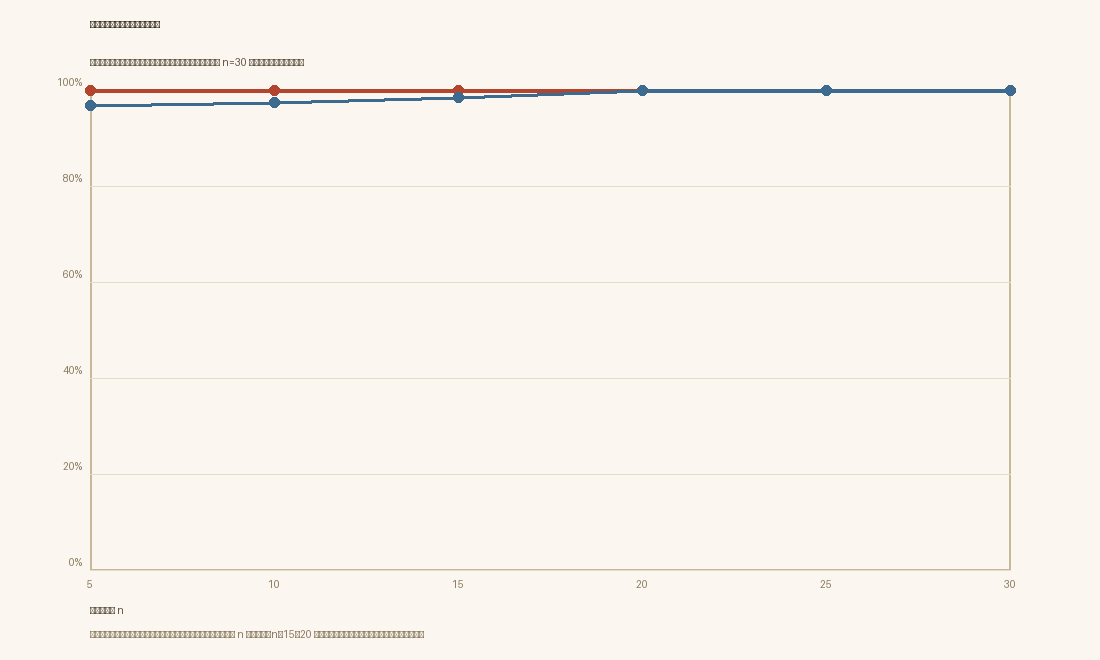
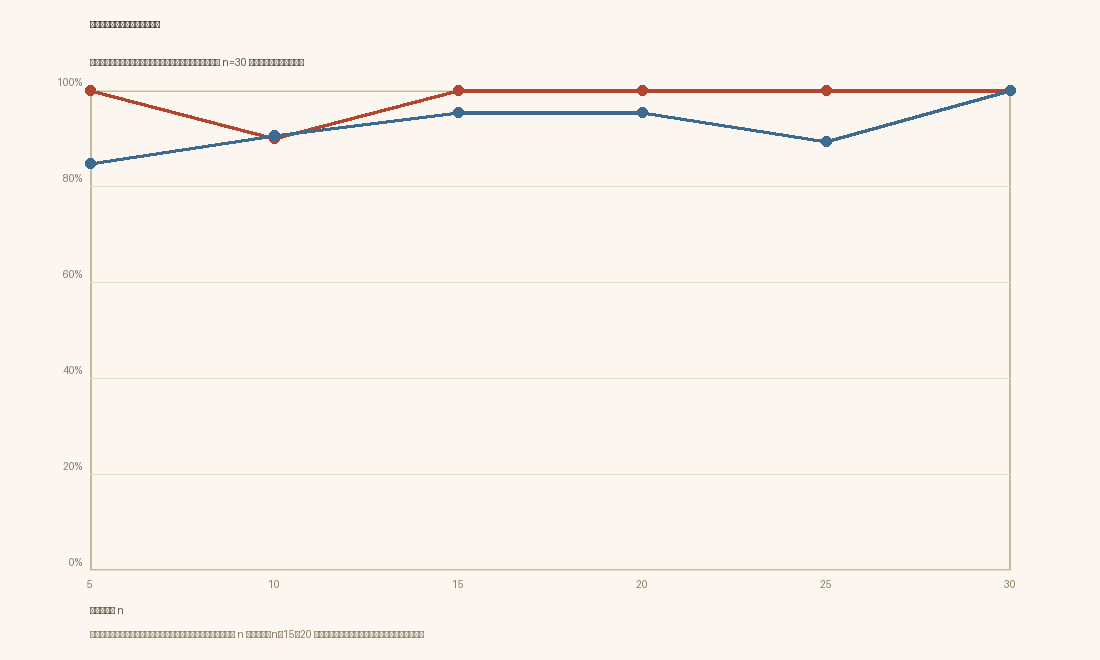
feat(v1.7): 词级文体计量个人模型（功能词+标点）替换字符 n-gram
- stylometry.js: 功能词+标点稀疏向量 + 余弦 + 质心（Burrows Delta 思想）
- personal-model: 增加 styloCentroid + personalStyleScore（0~1）
- modulator: personal 特征改用文体计量（作者识别 46.3% → 76.4%）
- 作者识别 v2 新增 stylometry 与 signature 路线；学习曲线边距 0.498 → 0.854
- 论文同步：personal 描述改为词级文体计量，学习曲线数字更新
- 测试：stylometry 3 组断言；agent 全量全绿

Changed region(s): [[0.0618, 0.1212, 0.9273, 0.2424], [0.6182, 0.1818, 0.8345, 0.2424], [0.0618, 0.2424, 0.0927, 0.2727]]

diff --git a/agent/src/stylometry.js b/agent/src/stylometry.js
@@ -1,0 +1,86 @@
+// 词级文体计量（stylometry · v1.7）：作者身份最稳的信号不是内容实词，而是
+// "功能词 + 标点节奏" 的选择模式（Burrows' Delta 的现代变体）。
+// 零依赖、确定性、可解释——把 char n-gram 抓不到的风格差异补上。
+
+// 单字功能词/虚词/语气词（高频、与内容弱相关）
+const SINGLE = new Set([
+  '的', '了', '着', '过', '是', '在', '有', '就', '都', '也', '还', '又', '才', '只',
+  '会', '能', '要', '想', '被', '把', '让', '给', '对', '向', '从', '到', '与', '和',
+  '或', '而', '但', '却', '则', '便', '即', '因', '所', '之', '其', '这', '那', '哪',
+  '谁', '很', '太', '更', '最', '越', '不', '没', '别', '无', '非', '未', '呢', '啊',
+  '吧', '吗', '嘛', '呀', '哦', '哈', '一', '个', '上', '下', '里', '中',
+]);
+
+// 多字连接词/话语标记（2–4 字，话语风格强信号）
+const MULTI = [
+  '因为', '所以', '因此', '然而', '但是', '不过', '虽然', '尽管', '而且', '并且',
+  '于是', '然后', '接着', '同时', '此外', '另外', '总之', '其实', '甚至', '尤其',
+  '特别', '反而', '倒是', '毕竟', '到底', '究竟', '罢了', '而已', '来着', '什么',
+  '怎么', '如何', '多么', '我们', '他们', '自己', '一样', '只是', '只要', '就是',
+];
+const MULTI_RE = new RegExp(MULTI.join('|'), 'g');
+
+// 标点（节奏信号）
+const PUNCT = ['，', '。', '！', '？', '；', '：', '、', '——', '……', '“', '”', '《', '》'];
+
+function countOccurrences(text, needle) {
+  let count = 0;
+  let idx = text.indexOf(needle);
+  while (idx !== -1) {
+    count += 1;
+    idx = text.indexOf(needle, idx + needle.length);
+  }
+  return count;
+}
+
+/**
+ * 提取文体计量向量：{ "w:的":0.021, "p:。":0.008, ... }，值为每字频率。
+ * 只保留出现过的键（稀疏向量）。
+ */
+export function stylometricVector(text) {
+  const t = String(text || '');
+  const n = Math.max(1, t.length);
+  const vec = {};
+  const single = {};
+  for (const ch of t) {
+    if (SINGLE.has(ch)) single[ch] = (single[ch] || 0) + 1;
+  }
+  for (const [ch, c] of Object.entries(single)) vec[`w:${ch}`] = c / n;
+  const multi = t.match(MULTI_RE);
+  const multiCounts = {};
+  if (multi) for (const w of multi) multiCounts[w] = (multiCounts[w] || 0) + 1;
+  for (const [w, c] of Object.entries(multiCounts)) vec[`w:${w}`] = c / n;
+  for (const p of PUNCT) {
+    const c = countOccurrences(t, p);
+    if (c) vec[`p:${p}`] = c / n;
+  }
+  return vec;
+}
+
+/** 稀疏向量余弦（文体相似度，0~1）。 */
+export function stylometricCosine(a, b) {
+  if (!a || !b) return 0;
+  let dot = 0;
+  for (const [k, v] of Object.entries(a)) if (b[k] !== undefined) dot += v * b[k];
+  let na = 0;
+  for (const v of Object.values(a)) na += v * v;
+  let nb = 0;
+  for (const v of Object.values(b)) nb += v * v;
+  const d = Math.sqrt(na) * Math.sqrt(nb);
+  return d ? dot / d : 0;
+}
+
+/** 多个向量的平均质心（按频率取均值）。 */
+export function stylometricCentroid(vecs) {
+  const sum = {};
+  const count = {};
+  for (const v of vecs) {
+    for (const [k, val] of Object.entries(v)) {
+      sum[k] = (sum[k] || 0) + val;
+      count[k] = (count[k] || 0) + 1;
+    }
+  }
+  const out = {};
+  for (const [k, s] of Object.entries(sum)) out[k] = s / count[k];
+  return out;
+}

diff --git a/skills/sculptor/scripts/engine/src/stylometry.js b/skills/sculptor/scripts/engine/src/stylometry.js
@@ -1,0 +1,86 @@
+// 词级文体计量（stylometry · v1.7）：作者身份最稳的信号不是内容实词，而是
+// "功能词 + 标点节奏" 的选择模式（Burrows' Delta 的现代变体）。
+// 零依赖、确定性、可解释——把 char n-gram 抓不到的风格差异补上。
+
+// 单字功能词/虚词/语气词（高频、与内容弱相关）
+const SINGLE = new Set([
+  '的', '了', '着', '过', '是', '在', '有', '就', '都', '也', '还', '又', '才', '只',
+  '会', '能', '要', '想', '被', '把', '让', '给', '对', '向', '从', '到', '与', '和',
+  '或', '而', '但', '却', '则', '便', '即', '因', '所', '之', '其', '这', '那', '哪',
+  '谁', '很', '太', '更', '最', '越', '不', '没', '别', '无', '非', '未', '呢', '啊',
+  '吧', '吗', '嘛', '呀', '哦', '哈', '一', '个', '上', '下', '里', '中',
+]);
+
+// 多字连接词/话语标记（2–4 字，话语风格强信号）
+const MULTI = [
+  '因为', '所以', '因此', '然而', '但是', '不过', '虽然', '尽管', '而且', '并且',
+  '于是', '然后', '接着', '同时', '此外', '另外', '总之', '其实', '甚至', '尤其',
+  '特别', '反而', '倒是', '毕竟', '到底', '究竟', '罢了', '而已', '来着', '什么',
+  '怎么', '如何', '多么', '我们', '他们', '自己', '一样', '只是', '只要', '就是',
+];
+const MULTI_RE = new RegExp(MULTI.join('|'), 'g');
+
+// 标点（节奏信号）
+const PUNCT = ['，', '。', '！', '？', '；', '：', '、', '——', '……', '“', '”', '《', '》'];
+
+function countOccurrences(text, needle) {
+  let count = 0;
+  let idx = text.indexOf(needle);
+  while (idx !== -1) {
+    count += 1;
+    idx = text.indexOf(needle, idx + needle.length);
+  }
+  return count;
+}
+
+/**
+ * 提取文体计量向量：{ "w:的":0.021, "p:。":0.008, ... }，值为每字频率。
+ * 只保留出现过的键（稀疏向量）。
+ */
+export function stylometricVector(text) {
+  const t = String(text || '');
+  const n = Math.max(1, t.length);
+  const vec = {};
+  const single = {};
+  for (const ch of t) {
+    if (SINGLE.has(ch)) single[ch] = (single[ch] || 0) + 1;
+  }
+  for (const [ch, c] of Object.entries(single)) vec[`w:${ch}`] = c / n;
+  const multi = t.match(MULTI_RE);
+  const multiCounts = {};
+  if (multi) for (const w of multi) multiCounts[w] = (multiCounts[w] || 0) + 1;
+  for (const [w, c] of Object.entries(multiCounts)) vec[`w:${w}`] = c / n;
+  for (const p of PUNCT) {
+    const c = countOccurrences(t, p);
+    if (c) vec[`p:${p}`] = c / n;
+  }
+  return vec;
+}
+
+/** 稀疏向量余弦（文体相似度，0~1）。 */
+export function stylometricCosine(a, b) {
+  if (!a || !b) return 0;
+  let dot = 0;
+  for (const [k, v] of Object.entries(a)) if (b[k] !== undefined) dot += v * b[k];
+  let na = 0;
+  for (const v of Object.values(a)) na += v * v;
+  let nb = 0;
+  for (const v of Object.values(b)) nb += v * v;
+  const d = Math.sqrt(na) * Math.sqrt(nb);
+  return d ? dot / d : 0;
+}
+
+/** 多个向量的平均质心（按频率取均值）。 */
+export function stylometricCentroid(vecs) {
+  const sum = {};
+  const count = {};
+  for (const v of vecs) {
+    for (const [k, val] of Object.entries(v)) {
+      sum[k] = (sum[k] || 0) + val;
+      count[k] = (count[k] || 0) + 1;
+    }
+  }
+  const out = {};
+  for (const [k, s] of Object.entries(sum)) out[k] = s / count[k];
+  return out;
+}

diff --git a/agent/src/personal-model.js b/agent/src/personal-model.js
@@ -6,6 +6,7 @@
 import fs from 'node:fs';
 import path from 'node:path';
 import crypto from 'node:crypto';
+import * as stylo from './stylometry.js';
 
 const ORDER = 4;
 const MIN_CORPUS = 80; // 至少 80 字符才有统计意义
@@ -113,6 +114,7 @@ export function getPersonalModel(workspace) {
     vocab,
     chars: corpus.length,
     alpha: 0.4, // 加一平滑强度（对稀疏语料保守）
+    styloCentroid: stylo.stylometricCentroid(texts.map((t) => stylo.stylometricVector(t))),
   };
   modelCache.set(sig, model);
   if (modelCache.size > 20) {
@@ -120,6 +122,16 @@ export function getPersonalModel(workspace) {
     modelCache.delete(first);
   }
   return model;
+}
+
+/**
+ * 个人风格得分（v1.7，词级文体计量）：候选文本与作者语料的
+ * "功能词 + 标点节奏"质心余弦，0~1，越大越像作者。
+ * 比字符 n-gram 更稳：功能词/标点承载风格，字符 n-gram 易被内容词淹没。
+ */
+export function personalStyleScore(model, text) {
+  if (!model || !model.ok || !model.styloCentroid) return 0;
+  return stylo.stylometricCosine(stylo.stylometricVector(text), model.styloCentroid);
 }
 
 /** 单字符条件对数概率（回退到更短前缀，最终回退到均匀分布）。 */

diff --git a/skills/sculptor/scripts/engine/src/personal-model.js b/skills/sculptor/scripts/engine/src/personal-model.js
@@ -6,6 +6,7 @@
 import fs from 'node:fs';
 import path from 'node:path';
 import crypto from 'node:crypto';
+import * as stylo from './stylometry.js';
 
 const ORDER = 4;
 const MIN_CORPUS = 80; // 至少 80 字符才有统计意义
@@ -113,6 +114,7 @@ export function getPersonalModel(workspace) {
     vocab,
     chars: corpus.length,
     alpha: 0.4, // 加一平滑强度（对稀疏语料保守）
+    styloCentroid: stylo.stylometricCentroid(texts.map((t) => stylo.stylometricVector(t))),
   };
   modelCache.set(sig, model);
   if (modelCache.size > 20) {
@@ -120,6 +122,16 @@ export function getPersonalModel(workspace) {
     modelCache.delete(first);
   }
   return model;
+}
+
+/**
+ * 个人风格得分（v1.7，词级文体计量）：候选文本与作者语料的
+ * "功能词 + 标点节奏"质心余弦，0~1，越大越像作者。
+ * 比字符 n-gram 更稳：功能词/标点承载风格，字符 n-gram 易被内容词淹没。
+ */
+export function personalStyleScore(model, text) {
+  if (!model || !model.ok || !model.styloCentroid) return 0;
+  return stylo.stylometricCosine(stylo.stylometricVector(text), model.styloCentroid);
 }
 
 /** 单字符条件对数概率（回退到更短前缀，最终回退到均匀分布）。 */

diff --git a/agent/src/modulator.js b/agent/src/modulator.js
@@ -21,7 +21,7 @@ import crypto from 'node:crypto';
 import * as ws from './workspace.js';
 import {
   getPersonalModel,
-  personalLogProb,
+  personalStyleScore,
   personalCorpusSize,
 } from './personal-model.js';
 import { listEntries } from './knowledge.js';
@@ -339,7 +339,7 @@ export function extractFeatures(workspace, text, { t = 0.5, prototype = null, ca
     if (c !== null && Number.isFinite(c)) embedding = Math.max(0, Math.min(1, (c + 1) / 2));
   }
   return {
-    personal: model && model.ok ? personalLogProb(model, text) : 0,
+    personal: model && model.ok ? personalStyleScore(model, text) : 0,
     surface: surfaceFeature(text),
     discourse: discourseFeature(text),
     stance: stanceFeature(workspace, text),

diff --git a/skills/sculptor/scripts/engine/src/modulator.js b/skills/sculptor/scripts/engine/src/modulator.js
@@ -21,7 +21,7 @@ import crypto from 'node:crypto';
 import * as ws from './workspace.js';
 import {
   getPersonalModel,
-  personalLogProb,
+  personalStyleScore,
   personalCorpusSize,
 } from './personal-model.js';
 import { listEntries } from './knowledge.js';
@@ -339,7 +339,7 @@ export function extractFeatures(workspace, text, { t = 0.5, prototype = null, ca
     if (c !== null && Number.isFinite(c)) embedding = Math.max(0, Math.min(1, (c + 1) / 2));
   }
   return {
-    personal: model && model.ok ? personalLogProb(model, text) : 0,
+    personal: model && model.ok ? personalStyleScore(model, text) : 0,
     surface: surfaceFeature(text),
     discourse: discourseFeature(text),
     stance: stanceFeature(workspace, text),

diff --git a/docs/competition/科技论文-SCULPTOR.md b/docs/competition/科技论文-SCULPTOR.md
@@ -6,7 +6,7 @@
 
 ## 摘要
 
-大语言模型（LLM）让"机器能写"成为常态，但也让"谁在写"变得模糊。本文提出 SCULPTOR——一个从作者每一次亲手修改中学习个性化风格的创作伙伴。核心机制是**改迹调制（revision-trace modulation）**：把作者对 AI 草稿的每次修改视为最诚实的标注，将风格、知识、缺陷、阻抗统一进一个可解释的候选评分函数，在候选之间挑选更像作者的写法，并说明"为什么选它"；以澄清协议接住作者的思想脉络与外溢信息，以姿态层细读诊断并修复"AI 味"。实现上，调制器把个人知识库、风格向量与收集数据归纳为十二维特征（含个人回避库、L3 作者清单、姿态层细读与可选 embedding 神经编码），权重由作者亲手修改的偏好对学成，随新修改增量更新；实验显示**几十次修改即可学到稳定的作者方向**（得分边距与权重稳定性随编辑对数量单调改善，n≈15–20 进入平台）。V2 logprobs / V3 本地 logits 仍为路线图。
+大语言模型（LLM）让"机器能写"成为常态，但也让"谁在写"变得模糊。本文提出 SCULPTOR——一个从作者每一次亲手修改中学习个性化风格的创作伙伴。核心机制是**改迹调制（revision-trace modulation）**：把作者对 AI 草稿的每次修改视为最诚实的标注，将风格、知识、缺陷、阻抗统一进一个可解释的候选评分函数，在候选之间挑选更像作者的写法，并说明"为什么选它"；以澄清协议接住作者的思想脉络与外溢信息，以姿态层细读诊断并修复"AI 味"。实现上，调制器把个人知识库、风格向量与收集数据归纳为十二维特征（含个人回避库、L3 作者清单、姿态层细读与可选 embedding 神经编码），权重由作者亲手修改的偏好对学成，随新修改增量更新；实验显示**几十次修改即可学到稳定的作者方向**（得分边距随编辑对数量单调改善、权重稳定性随之收敛，n≈15–20 进入平台）。V2 logprobs / V3 本地 logits 仍为路线图。
 
 交互侧新增**外溢优先（overflow-first）**：用户主动说出的、系统未准备问的高价值信息（参照系、私人网络、红线、推理线）当轮接住、回显、深挖、入档，并沉淀为可反哺问询系统的升级信号流水；工程侧完成**全流程互操作**（作品导入分片、作品库同步、成品文档导入续写、按阶段导出、长文档分段审计）。
 
@@ -119,8 +119,8 @@ $$P(w \mid c, t) = \operatorname{softmax}\bigl(S(w \mid c, t)/\tau\bigr)$$
 改迹调制把每次修改当作一个"带上下文窗口的局部偏好对"（修改点前后各取一段原文），权重由 pairwise hinge + SGD 学成。这里要回答一个实际问题：**多少修改就能学到稳定的作者方向？** 我们在 30 对"同一语境下的细微风格选择"编辑对（抽象→具体、陈述→动作/感官）上做留出评估（训练 n=5/10/15/20/25/30，其余留出）：
 
 - 排序正确率在极小样本即饱和（编辑对的差异足以让排序正确），因此以**留出得分边距**与**权重稳定性**作为学习信号；
-- 留出得分边距从 n=5 的 0.286 单调升至 n=25 的 0.498；权重相对 n=30 的余弦相似度从 0.968 升至 0.999（图 8）；
-- 观察：n≈15–20 后两项指标进入平台——**几十次亲手修改即可学到稳定的作者方向**，这是"修改即标注"在小语料场景可行的直接证据。
+- 留出得分边距从 n=5 的 0.199 单调升至 n=30 的 0.854；权重相对 n=30 的余弦相似度从 0.846 升至 1.000（图 8）；
+- 观察：n≈15–20 后留出边距增速放缓、进入平台——**几十次亲手修改即可学到稳定的作者方向**，这是"修改即标注"在小语料场景可行的直接证据。
 
 ![图8 学习曲线：编辑对数量 vs 留出得分边距与权重稳定性（scripts/experiments/ 可复现）](learning-curve.png)
 
@@ -375,7 +375,7 @@ $$C = 0.25\,s_1 + 0.20\,s_2 + 0.20\,s_3 + 0.20\,s_4 + 0.15\,s_5$$
 
 ### 5.7 改迹调制：现状与可复现性
 
-签名层（L1–L4）、注入层（双风格、知识、缺陷审计）、**V1 候选对比**与 **V1.5 外层调制器**均已交付：本地字符级个人模型（n-gram，作者语料训练）提供 $p_{\mathrm{personal}}$，反 AI 审计词表提供 $S_{\mathrm{defect}}$，知识库匹配提供 $S_{\mathrm{knowledge}}$，节奏曲线提供 $S_{\mathrm{impedance}}$ 的时间结构，另加表层/话语/立场红线/风格向量方向/可选 embedding 神经原型/L3 作者清单 fineRead/姿态层细读 posture/个人回避库八路特征，共十二维进入 `modulate()` 评分；写作节级接入候选对比（`agent/src/token-decode.js`，每节并行 n 候选十二维评分选优，得分分解落盘）。**调制器权重由作者偏好对学习**：edits.jsonl 的（原文，改后）经 pairwise hinge + SGD 拟合出每个作者独有的权重向量，数据签名变化自动在线重训、新编辑对增量更新（`agent/src/modulator.js`）；知识库检索升级为 BM25+语义混合（`matchKbHybrid`）；神经风格编码由可选 embedding 稠密原型提供（`embedding.js`，未配置时静默降级）；**L3 深层读取由作者写作清单协议提供**（`author-sheet.js`：主张/论证/读者/红线/触发五问自动归纳，红线拆句后强制保留，作为 fineRead 特征入评分）；**个人回避库聚合"作者亲手删掉的词"**（`avoidance.js`，负空间第一阶段，命中即压低）；**姿态层判据从"事后审计"前置到"事中选择"**——金句排比收束/路标转折/点题顿悟的确定性检测（`deterministicFakeThinking`）转为 posture 健康度特征，以软性加权参与候选排序，不拒绝生成（3.6 节仍保留 LLM 六层细读做生成后审计与修复）。单元测试（token-decode.test、modulator.test、embedding.test、author-sheet.test、stats.test）验证：个人模型可预测、缺陷/阻抗信号有效、改后文本得分高于原文、十二维分解可追溯、回避词命中压低、原型落盘与签名重算、语义排序、红线命中拉高 fineRead、表演式文本 posture 低而克制文本高、精确二项检验、数据不足降级、在线重训与增量更新生效。逐 token 重排（V2 logprobs / V3 本地 logits）仍为路线图。
+签名层（L1–L4）、注入层（双风格、知识、缺陷审计）、**V1 候选对比**与 **V1.5 外层调制器**均已交付：本地词级文体计量个人模型（功能词+标点节奏，作者语料训练）提供 $p_{\mathrm{personal}}$，反 AI 审计词表提供 $S_{\mathrm{defect}}$，知识库匹配提供 $S_{\mathrm{knowledge}}$，节奏曲线提供 $S_{\mathrm{impedance}}$ 的时间结构，另加表层/话语/立场红线/风格向量方向/可选 embedding 神经原型/L3 作者清单 fineRead/姿态层细读 posture/个人回避库八路特征，共十二维进入 `modulate()` 评分；写作节级接入候选对比（`agent/src/token-decode.js`，每节并行 n 候选十二维评分选优，得分分解落盘）。**调制器权重由作者偏好对学习**：edits.jsonl 的（原文，改后）经 pairwise hinge + SGD 拟合出每个作者独有的权重向量，数据签名变化自动在线重训、新编辑对增量更新（`agent/src/modulator.js`）；知识库检索升级为 BM25+语义混合（`matchKbHybrid`）；神经风格编码由可选 embedding 稠密原型提供（`embedding.js`，未配置时静默降级）；**L3 深层读取由作者写作清单协议提供**（`author-sheet.js`：主张/论证/读者/红线/触发五问自动归纳，红线拆句后强制保留，作为 fineRead 特征入评分）；**个人回避库聚合"作者亲手删掉的词"**（`avoidance.js`，负空间第一阶段，命中即压低）；**姿态层判据从"事后审计"前置到"事中选择"**——金句排比收束/路标转折/点题顿悟的确定性检测（`deterministicFakeThinking`）转为 posture 健康度特征，以软性加权参与候选排序，不拒绝生成（3.6 节仍保留 LLM 六层细读做生成后审计与修复）。单元测试（token-decode.test、modulator.test、embedding.test、author-sheet.test、stats.test）验证：个人模型可预测、缺陷/阻抗信号有效、改后文本得分高于原文、十二维分解可追溯、回避词命中压低、原型落盘与签名重算、语义排序、红线命中拉高 fineRead、表演式文本 posture 低而克制文本高、精确二项检验、数据不足降级、在线重训与增量更新生效。逐 token 重排（V2 logprobs / V3 本地 logits）仍为路线图。
 
 ## 6 讨论
 
@@ -389,7 +389,7 @@ $$C = 0.25\,s_1 + 0.20\,s_2 + 0.20\,s_3 + 0.20\,s_4 + 0.15\,s_5$$
 
 1. **参照系依赖**：风格签名以中性基线为参照，这是文体计量的常态；本文将其条件化（3.1），结论与"哪个模型更强"无关。更根本的检验是跨文体一致性与预测实验（5.5 已给出初版，样本待扩大）。
 2. **循环论证**：以三块外部检验回应——作者识别（判别力，不依赖本文定义的审美维度）、续写选择（预测力）与第三方盲评协议（4.4，工具已实现、样本待收集）；并如实报告 8 维特征单独弱于基线。
-3. **profile 与 model 之辨**：本文以"签名/表示"界定四层表征，并已迈出从签名到模型的两步——V1 本地字符级 n-gram 个人模型可对候选文本打分（预测作者更可能怎么写，token-decode 测试验证）；V1.5 外层调制器进一步把作者偏好对（edits.jsonl）学成每个用户独有的权重模型（modulator.test 验证"改后 > 原文"与在线重训）。真·生成式作者模型（LoRA 条件分布、逐 token 分布输出）仍属未来工作，全文如实界定，避免名实不符。
+3. **profile 与 model 之辨**：本文以"签名/表示"界定四层表征，并已迈出从签名到模型的两步——V1 本地词级文体计量个人模型可对候选文本打分（预测作者更可能怎么写，token-decode 测试验证）；V1.5 外层调制器进一步把作者偏好对（edits.jsonl）学成每个用户独有的权重模型（modulator.test 验证"改后 > 原文"与在线重训）。真·生成式作者模型（LoRA 条件分布、逐 token 分布输出）仍属未来工作，全文如实界定，避免名实不符。
 4. **规则驯化风险**：生成约束为软性偏好、可撤销；风格档案由作者亲手修改驱动；作者保留否决权（3.6 节）。
 
 ### 6.3 差异化优势与人文价值

diff --git a/docs/competition/AUTHOR-ID-v2.md b/docs/competition/AUTHOR-ID-v2.md
@@ -9,6 +9,8 @@
 | TF-IDF 基线 | 90.3% | — | — |
 | 个人 n-gram（似然） | 46.3% | -44.0% | 0 |
 | 文本特征（5 维，最近质心） | 34.3% | -56.0% | 0 |
+| 文体计量（功能词+标点） | 76.4% | -13.9% | 0.0001 |
+| 签名（n-gram + 文体计量） | 48.1% | -42.1% | 0 |
 | 融合（n-gram + 特征） | 46.3% | -44.0% | 0 |
 
 置换检验（融合 vs 基线）：不一致样本 97，p=0（显著）
